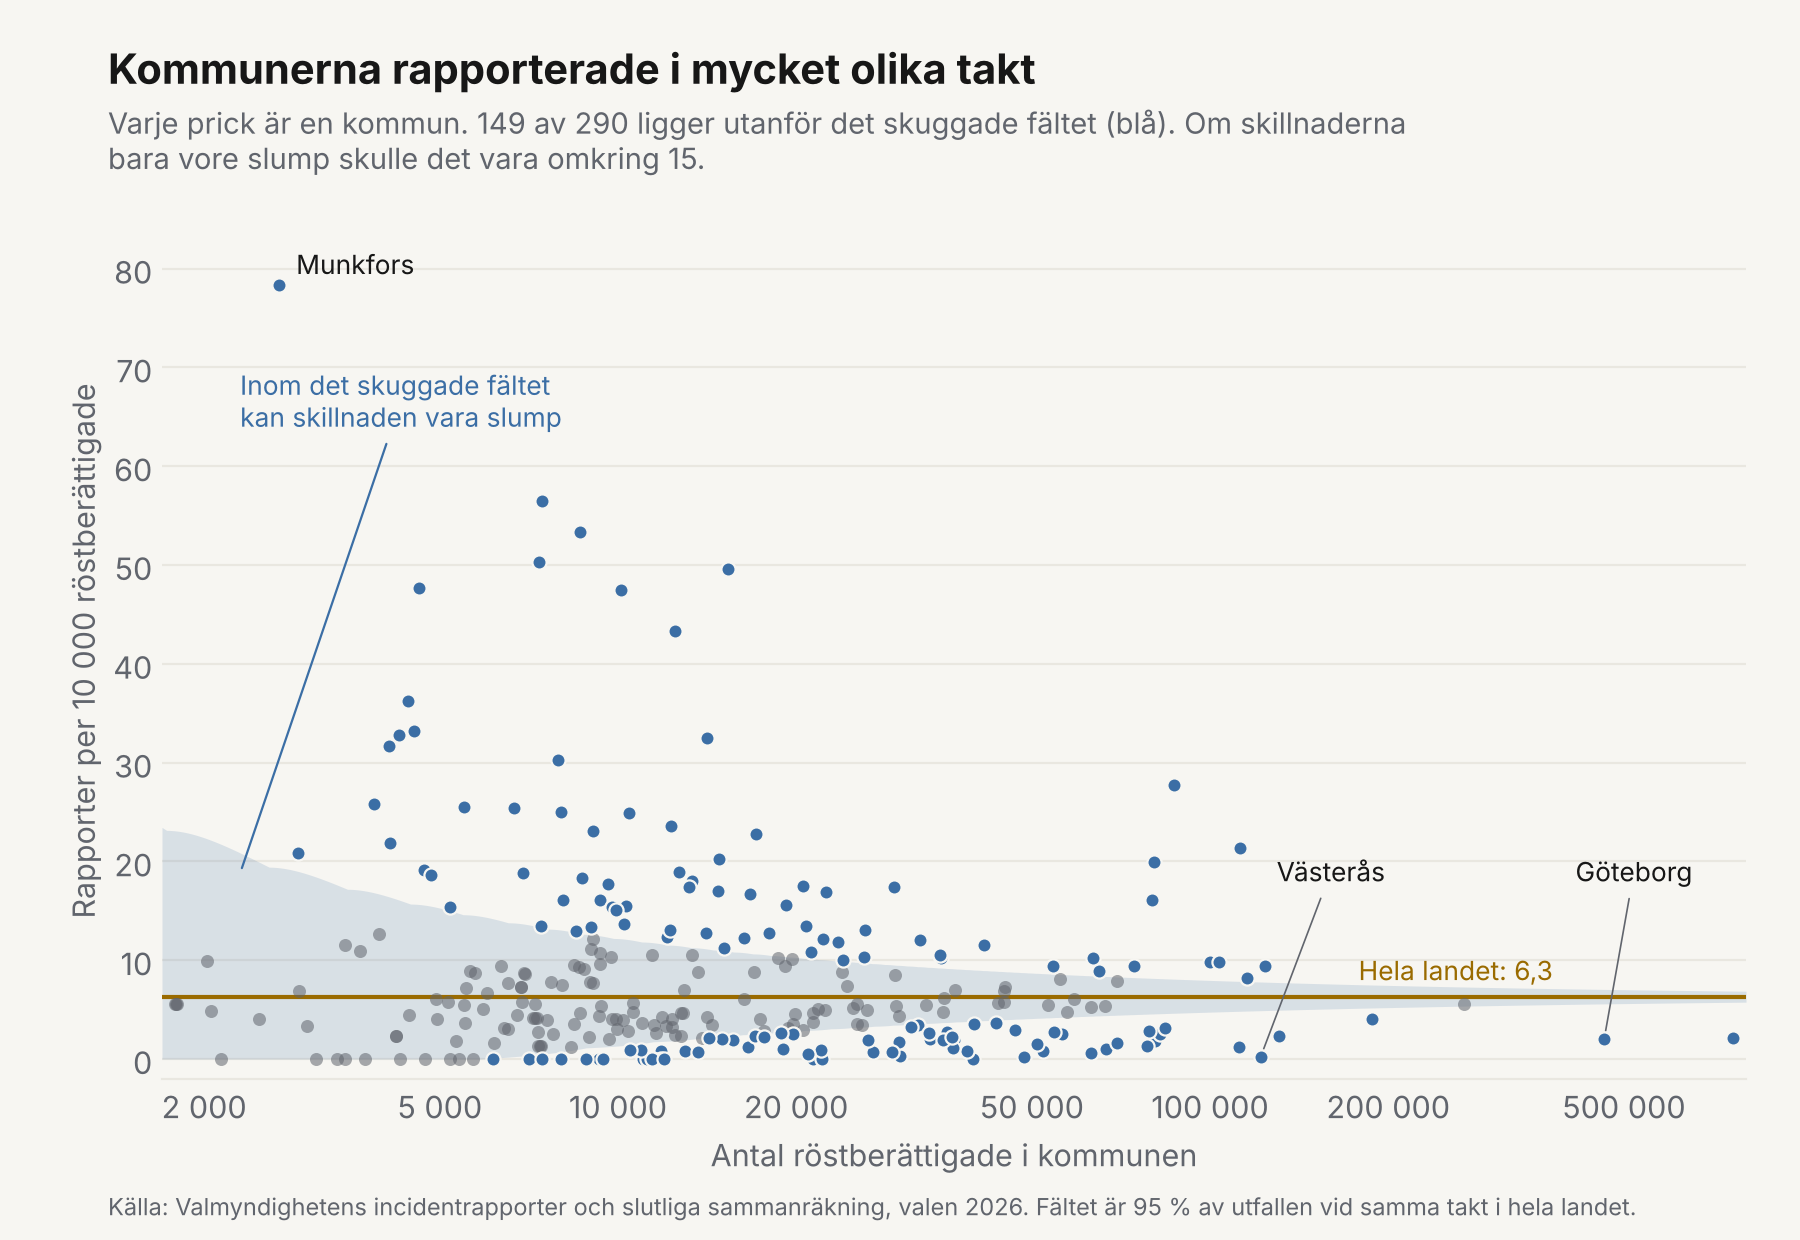
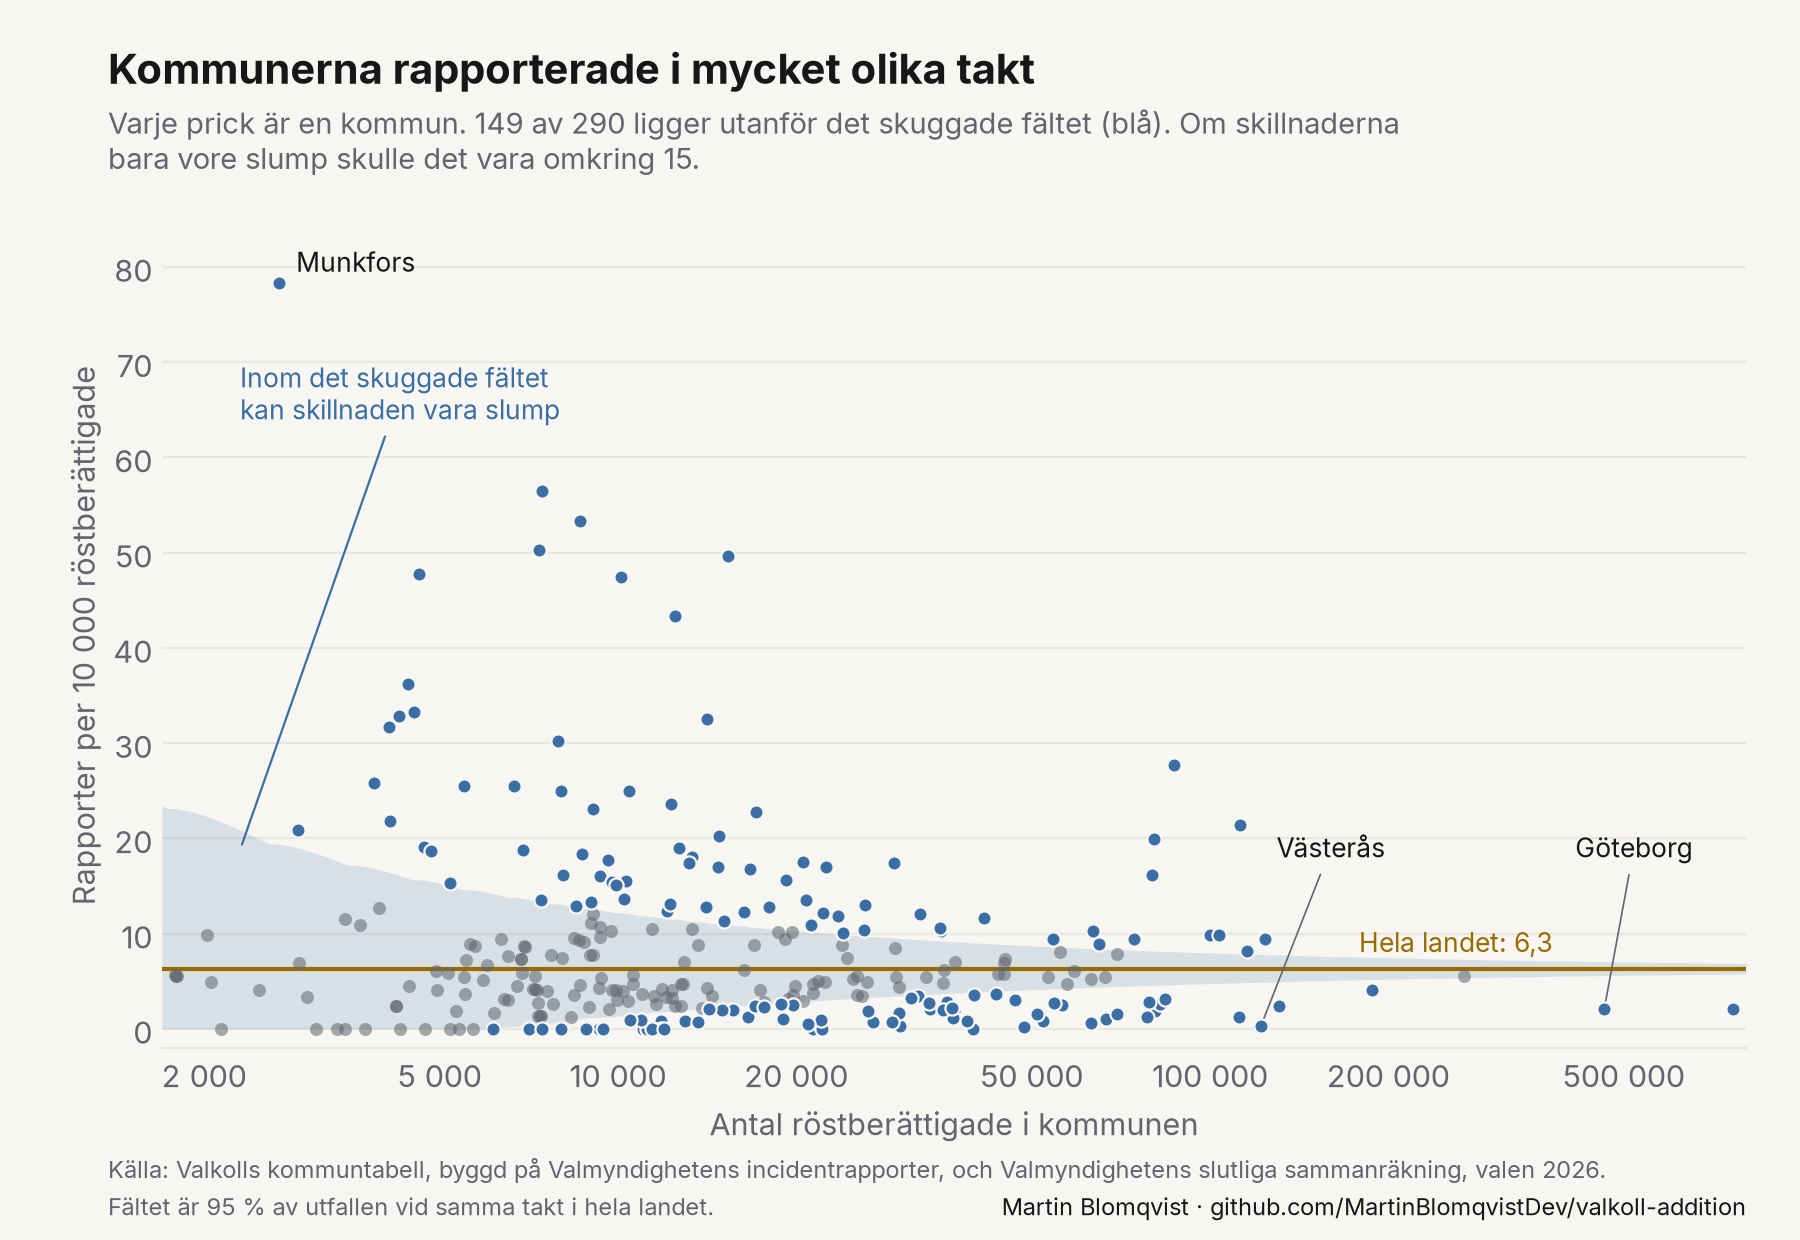
Byline and Valkoll's kommun table as source in the publication figure

diff --git a/pipeline/12_publication_figure.py b/pipeline/12_publication_figure.py
@@ -142,9 +142,13 @@ def draw(df: pd.DataFrame, national: float, theme: dict, out: Path) -> None:
     fig.text(0.06, 0.915, f"Varje prick är en kommun. {n_out} av {len(df)} ligger utanför det skuggade fältet "
              f"(blå). Om skillnaderna\nbara vore slump skulle det vara omkring {int(len(df) * 0.05 + 0.5)}.",
              fontsize=10.5, color=theme["muted"], va="top")
-    fig.text(0.06, 0.02, "Källa: Valmyndighetens incidentrapporter och slutliga sammanräkning, valen 2026. "
-             "Fältet är 95 % av utfallen vid samma takt i hela landet.", fontsize=8.5, color=theme["muted"])
-    fig.subplots_adjust(left=0.09, right=0.97, top=0.82, bottom=0.13)
+    fig.text(0.06, 0.05, "Källa: Valkolls kommuntabell, byggd på Valmyndighetens incidentrapporter, och "
+             "Valmyndighetens slutliga sammanräkning, valen 2026.", fontsize=8.5, color=theme["muted"])
+    fig.text(0.06, 0.02, "Fältet är 95 % av utfallen vid samma takt i hela landet.", fontsize=8.5,
+             color=theme["muted"])
+    fig.text(0.97, 0.02, "Martin Blomqvist · github.com/MartinBlomqvistDev/valkoll-addition", fontsize=8.5,
+             color=theme["fg"], ha="right")
+    fig.subplots_adjust(left=0.09, right=0.97, top=0.82, bottom=0.155)
     fig.savefig(out, facecolor=theme["bg"])
     plt.close(fig)
 
